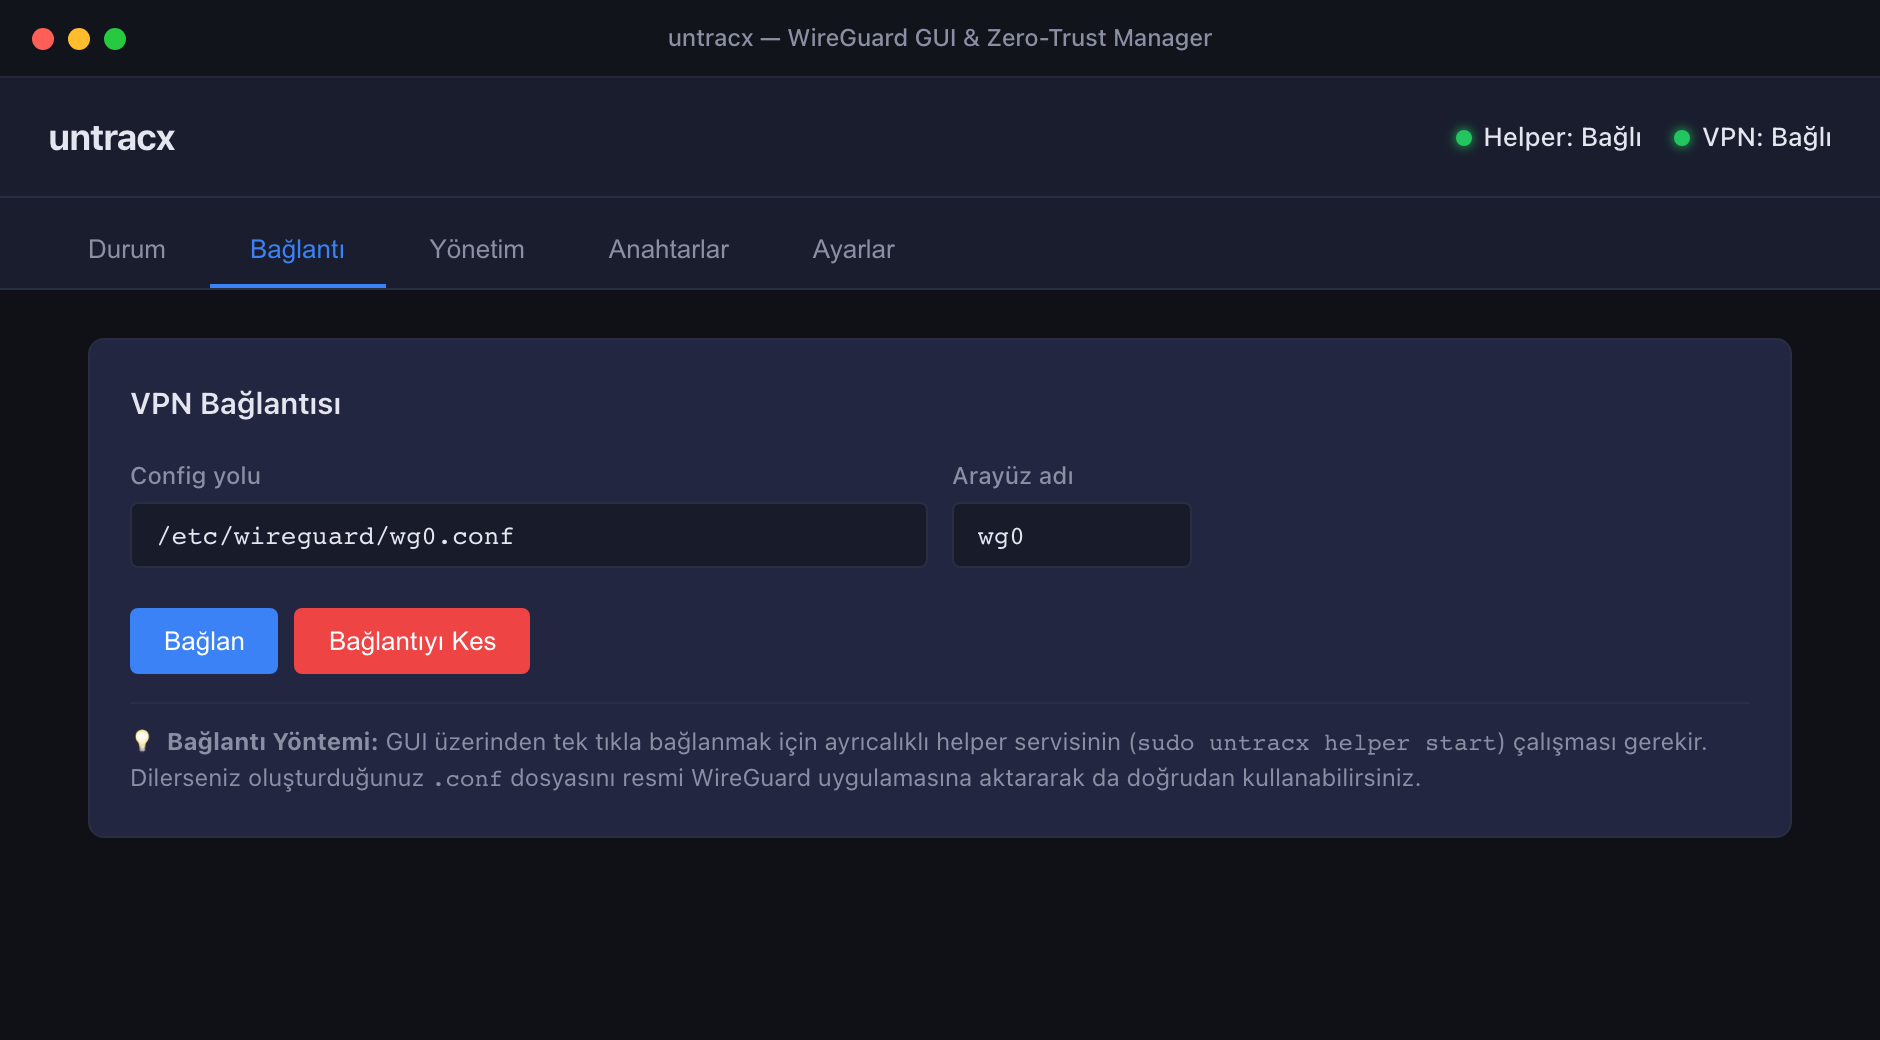
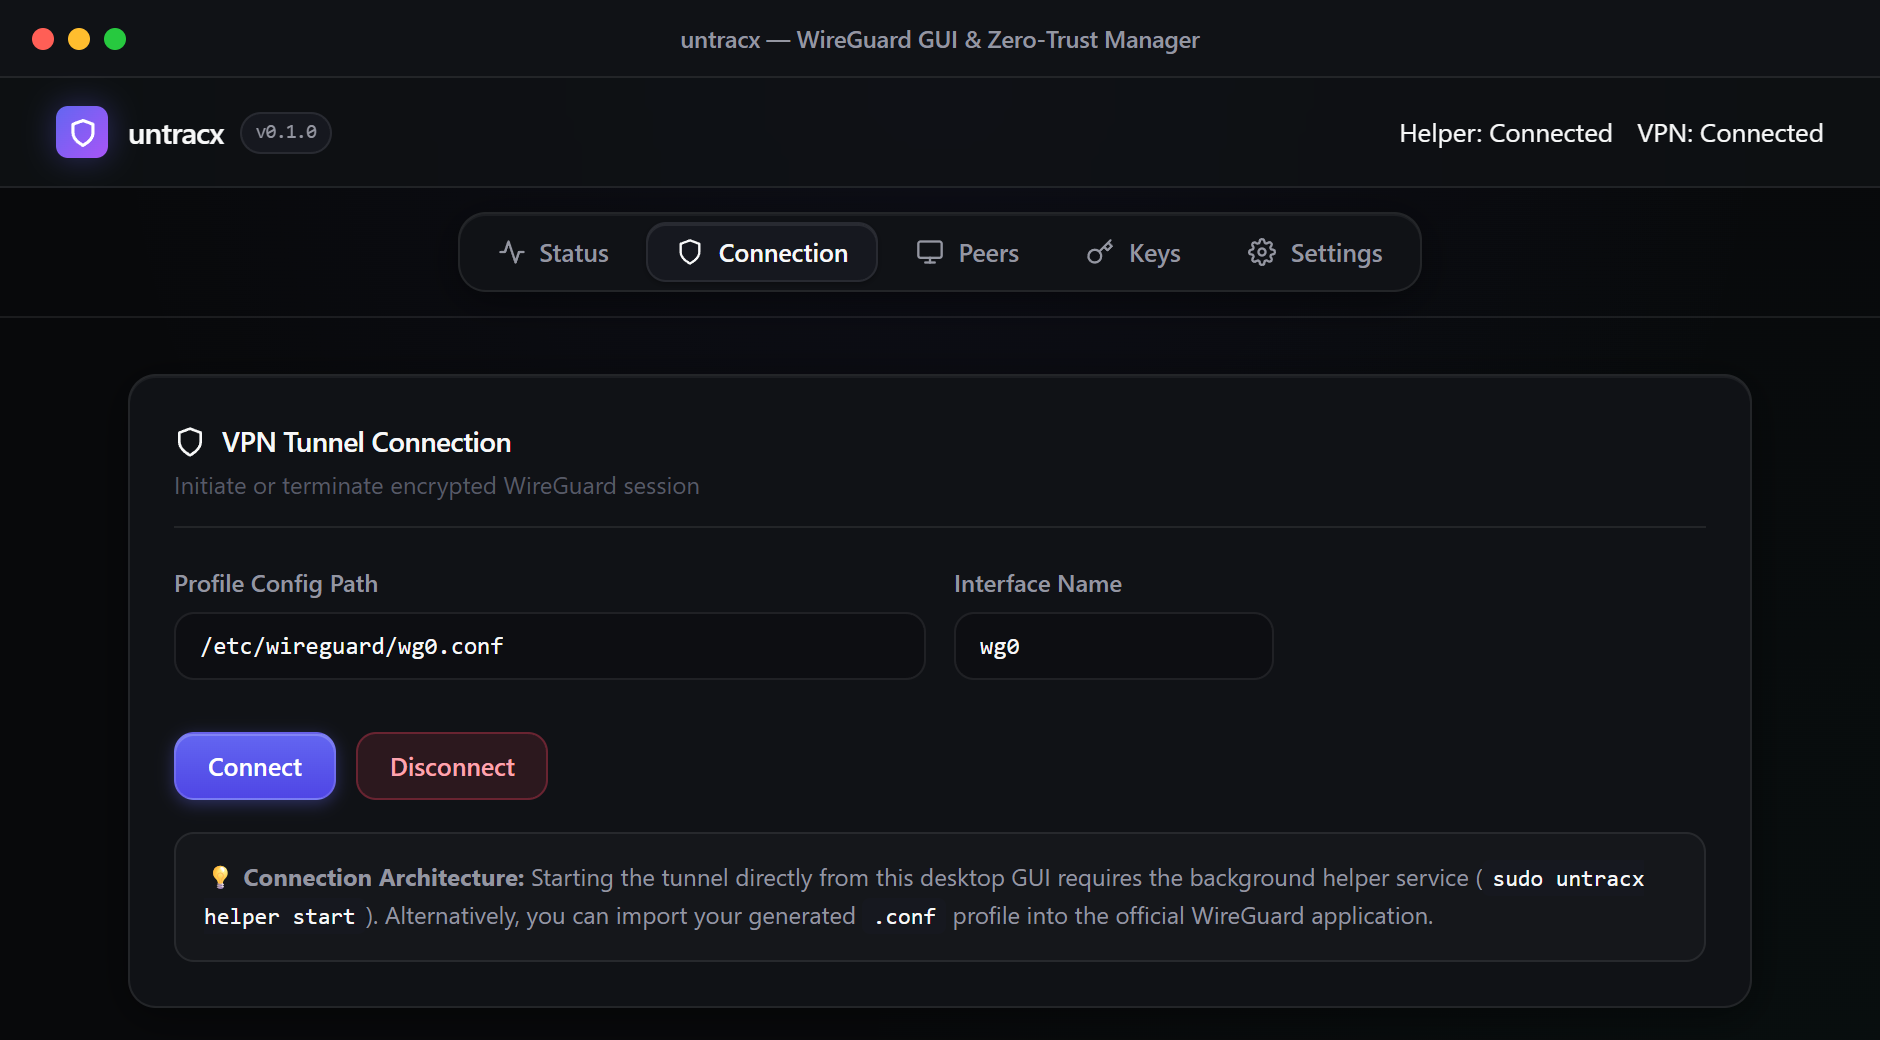
docs(screenshots): regenerate all high-res UI screenshots with modernized Linear design

diff --git a/gui/frontend/capture-all.js b/gui/frontend/capture-all.js
@@ -26,7 +26,7 @@ await new Promise((resolve) => {
 
 console.log('Vite server running...');
 
-const browser = await chromium.launch({ headless: true });
+const browser = await chromium.launch({ channel: 'msedge', headless: true });
 
 async function createPage(width = 920, height = 700) {
   const context = await browser.newContext({
@@ -36,8 +36,8 @@ async function createPage(width = 920, height = 700) {
   const page = await context.newPage();
 
   await page.addInitScript(() => {
-    (window as any).__TAURI_INTERNALS__ = {
-      invoke: async (cmd: string, args: any = {}) => {
+    window.__TAURI_INTERNALS__ = {
+      invoke: async (cmd, args = {}) => {
         if (cmd === 'helper_status') {
           return {
             running: true,
@@ -195,7 +195,7 @@ console.log('Capturing: 02_connection_panel.png');
   const { page, context } = await createPage(940, 520);
   await page.click('#tab-connection');
   await page.waitForTimeout(200);
-  await page.click('button:has-text("Connect Tunnel")');
+  await page.click('button:has-text("Connect")');
   await page.waitForTimeout(300);
   await page.screenshot({ path: path.join(SCREENSHOTS_DIR, '02_connection_panel.png') });
   await context.close();
@@ -220,22 +220,19 @@ console.log('Capturing: 04_key_management.png & 05_config_generator.png');
   const { page, context } = await createPage(940, 1340);
   await page.click('#tab-keys');
   await page.waitForTimeout(200);
-  await page.click('button:has-text("Generate New Key Pair")');
+
+  const keyCard = page.locator('.card').nth(0);
+  await keyCard.locator('button:has-text("Generate New Key Pair")').click();
+  await page.waitForTimeout(200);
+  await keyCard.locator('input[placeholder="X25519 private key (base64)"]').fill('aB3+dEfGhIjKlMnOpQrStUvWxYz0123456789ABCDEF=');
+  await keyCard.locator('button:has-text("Derive")').click();
   await page.waitForTimeout(200);
 
-  const privInputs = await page.$$('input[type="password"]');
-  if (privInputs.length > 0) {
-    await privInputs[0].fill('aB3+dEfGhIjKlMnOpQrStUvWxYz0123456789ABCDEF=');
-    await page.click('button:has-text("Derive")');
-    await page.waitForTimeout(200);
-  }
-  if (privInputs.length > 1) {
-    await privInputs[1].fill('cExAmPLePrIvAtEkEy123456789012345678901234=');
-  }
-
-  await page.fill('input[placeholder="X25519 public key (base64)"]', 'sErVeRPuBlIcKeY123456789012345678901234567=');
-  await page.fill('input[placeholder="10.0.0.1"]', '198.51.100.1');
-  await page.click('button:has-text("Generate Profile")');
+  const configCard = page.locator('.card').nth(1);
+  await configCard.locator('input[placeholder="X25519 private key (base64)"]').fill('cExAmPLePrIvAtEkEy123456789012345678901234=');
+  await configCard.locator('input[placeholder="X25519 public key (base64)"]').fill('sErVeRPuBlIcKeY123456789012345678901234567=');
+  await configCard.locator('input[placeholder="10.0.0.1"]').fill('198.51.100.1');
+  await configCard.locator('button:has-text("Generate Profile")').click();
   await page.waitForTimeout(300);
 
   // Full Keys view (Hero screenshot)
@@ -243,16 +240,10 @@ console.log('Capturing: 04_key_management.png & 05_config_generator.png');
   await page.screenshot({ path: path.join(ROOT_DIR, 'docs', 'gui-screenshot.png') });
 
   // Keygen card specific
-  const keyCard = await page.$('.card:nth-of-type(1)');
-  if (keyCard) {
-    await keyCard.screenshot({ path: path.join(SCREENSHOTS_DIR, '04_key_management.png') });
-  }
+  await keyCard.screenshot({ path: path.join(SCREENSHOTS_DIR, '04_key_management.png') });
 
   // Config card specific
-  const configCard = await page.$('.card:nth-of-type(2)');
-  if (configCard) {
-    await configCard.screenshot({ path: path.join(SCREENSHOTS_DIR, '05_config_generator.png') });
-  }
+  await configCard.screenshot({ path: path.join(SCREENSHOTS_DIR, '05_config_generator.png') });
 
   await context.close();
 }
@@ -263,7 +254,7 @@ console.log('Capturing: 06_settings_panel.png');
   const { page, context } = await createPage(940, 520);
   await page.click('#tab-settings');
   await page.waitForTimeout(200);
-  await page.fill('input[value=""]', '198.51.100.1');
+  await page.fill('input[placeholder*="140.238"]', '198.51.100.1');
   await page.click('button:has-text("Save Changes")');
   await page.waitForTimeout(300);
   await page.screenshot({ path: path.join(SCREENSHOTS_DIR, '06_settings_panel.png') });
